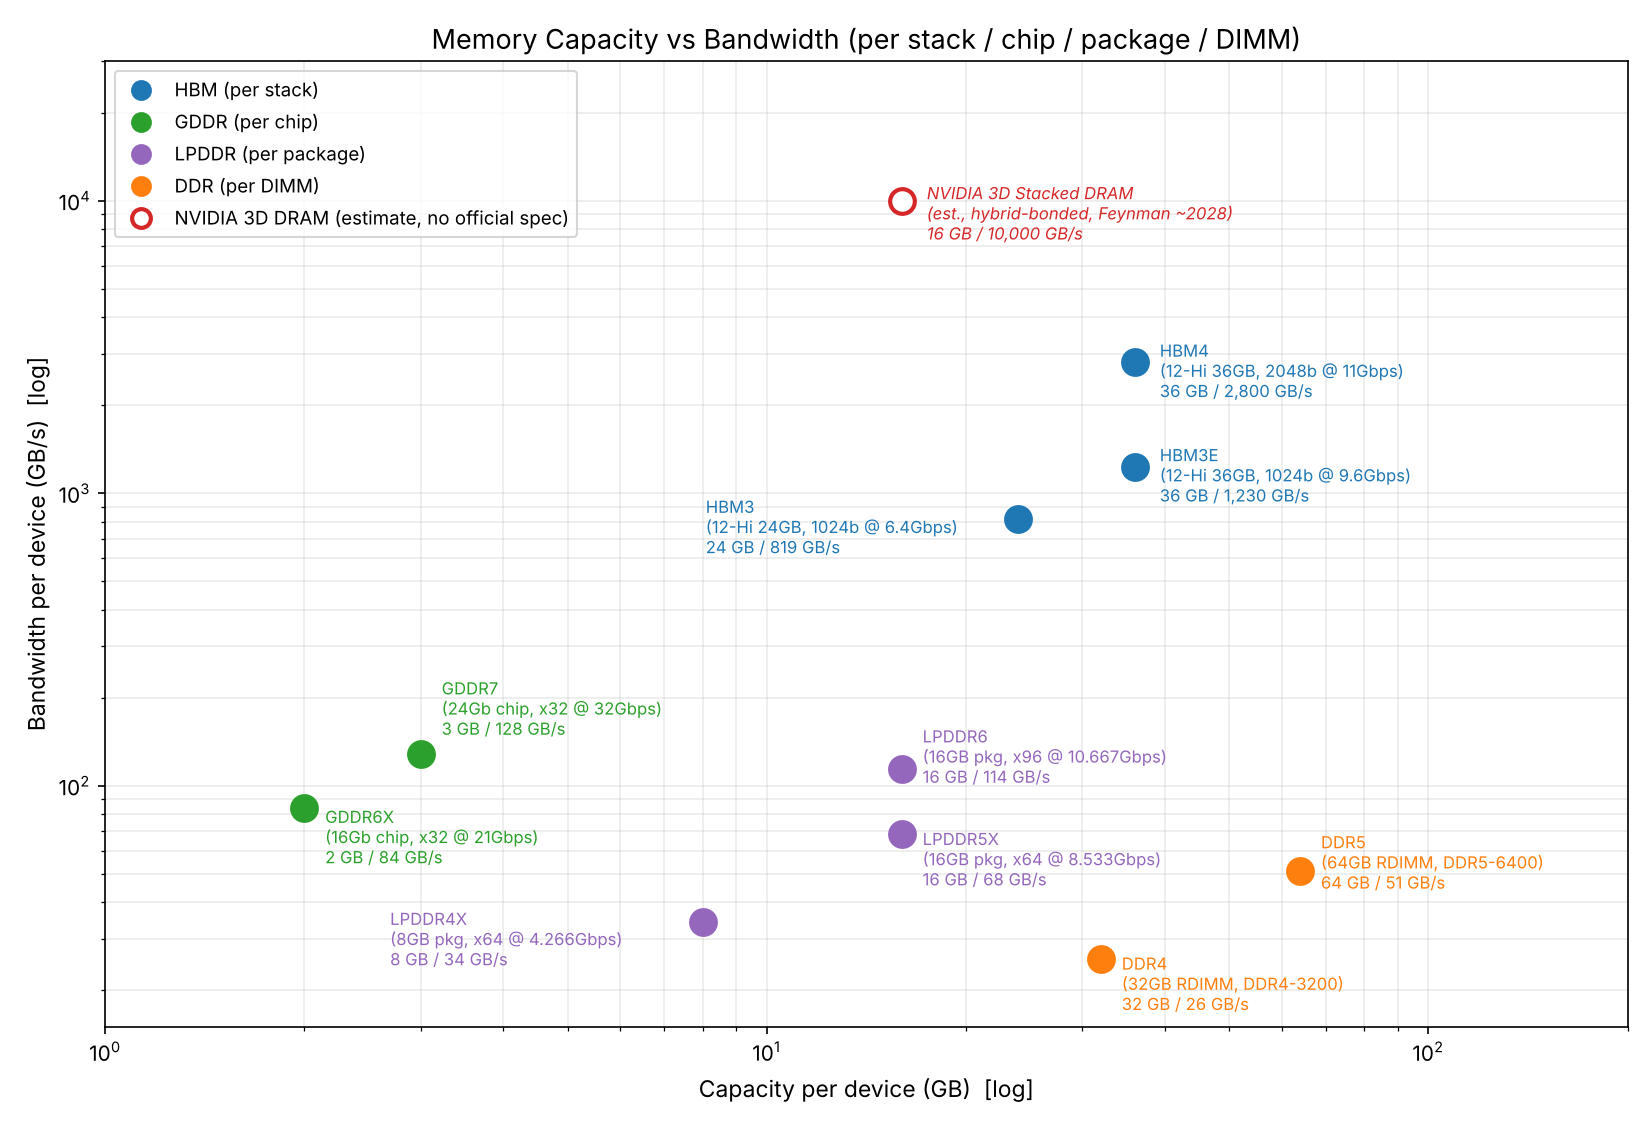
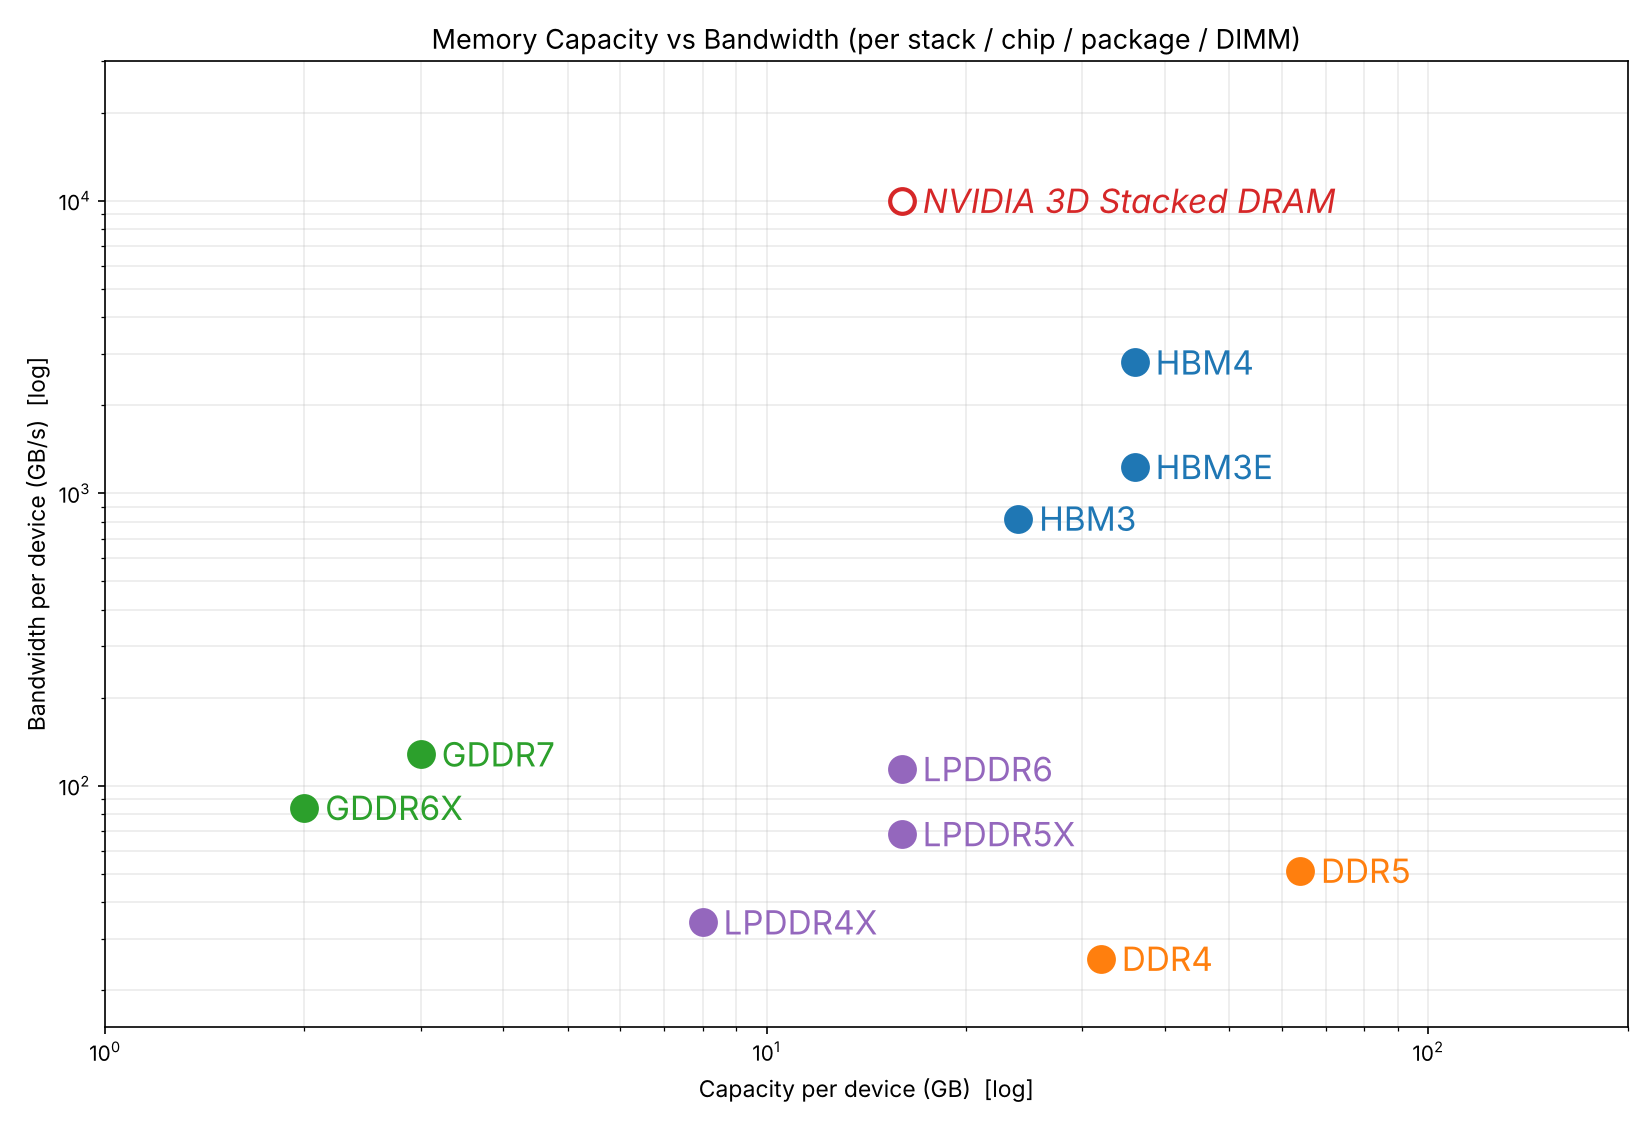
Simplify memory chart: name-only labels, larger font, no legend
Claude-Session: https://claude.ai/code/session_01DkF6LgnozP3R7CEQnp1asK

diff --git a/memory_chart/plot_memory.py b/memory_chart/plot_memory.py
@@ -18,19 +18,13 @@ data = [
     ("DDR4\n(32GB RDIMM, DDR4-3200)", 32, 25.6, "DIMM", "#ff7f0e", False),
 ]
 
-offsets = {  # label offsets in points
-    "NVIDIA": (12, -6), "HBM4": (12, -4), "HBM3E": (12, -4), "HBM3\n": (-150, -4),
-    "GDDR7": (10, 22), "GDDR6X": (10, -14), "LPDDR6": (10, 6), "LPDDR5X": (10, -12),
-    "LPDDR4X": (-150, -8), "DDR5": (10, 4), "DDR4": (10, -12),
-}
 
 fig, ax = plt.subplots(figsize=(11, 7.5), dpi=150)
 for name, cap, bw, unit, color, est in data:
-    key = next(k for k in offsets if name.startswith(k))
     ax.scatter(cap, bw, s=140, color="white" if est else color, edgecolors=color,
                linewidths=2, zorder=3, hatch=None)
-    ax.annotate(f"{name}\n{cap:g} GB / {bw:,.0f} GB/s", (cap, bw), textcoords="offset points",
-                xytext=offsets[key], fontsize=8, color=color, va="center",
+    ax.annotate(name.split("\n")[0], (cap, bw), textcoords="offset points",
+                xytext=(10, 0), fontsize=16, color=color, va="center",
                 fontstyle="italic" if est else "normal")
 
 ax.set_xscale("log"); ax.set_yscale("log")
@@ -40,12 +34,5 @@ ax.set_ylabel("Bandwidth per device (GB/s)  [log]", fontsize=11)
 ax.set_title("Memory Capacity vs Bandwidth (per stack / chip / package / DIMM)", fontsize=13)
 ax.grid(True, which="both", alpha=0.25)
 
-from matplotlib.lines import Line2D
-legend = [Line2D([], [], marker="o", ls="", color=c, markersize=9, label=l) for l, c in
-          [("HBM (per stack)", "#1f77b4"), ("GDDR (per chip)", "#2ca02c"),
-           ("LPDDR (per package)", "#9467bd"), ("DDR (per DIMM)", "#ff7f0e")]]
-legend.append(Line2D([], [], marker="o", ls="", markerfacecolor="white", markeredgecolor="#d62728",
-                     markeredgewidth=2, markersize=9, label="NVIDIA 3D DRAM (estimate, no official spec)"))
-ax.legend(handles=legend, loc="upper left", fontsize=9)
 plt.tight_layout()
 plt.savefig("memory_capacity_vs_bandwidth.png")
